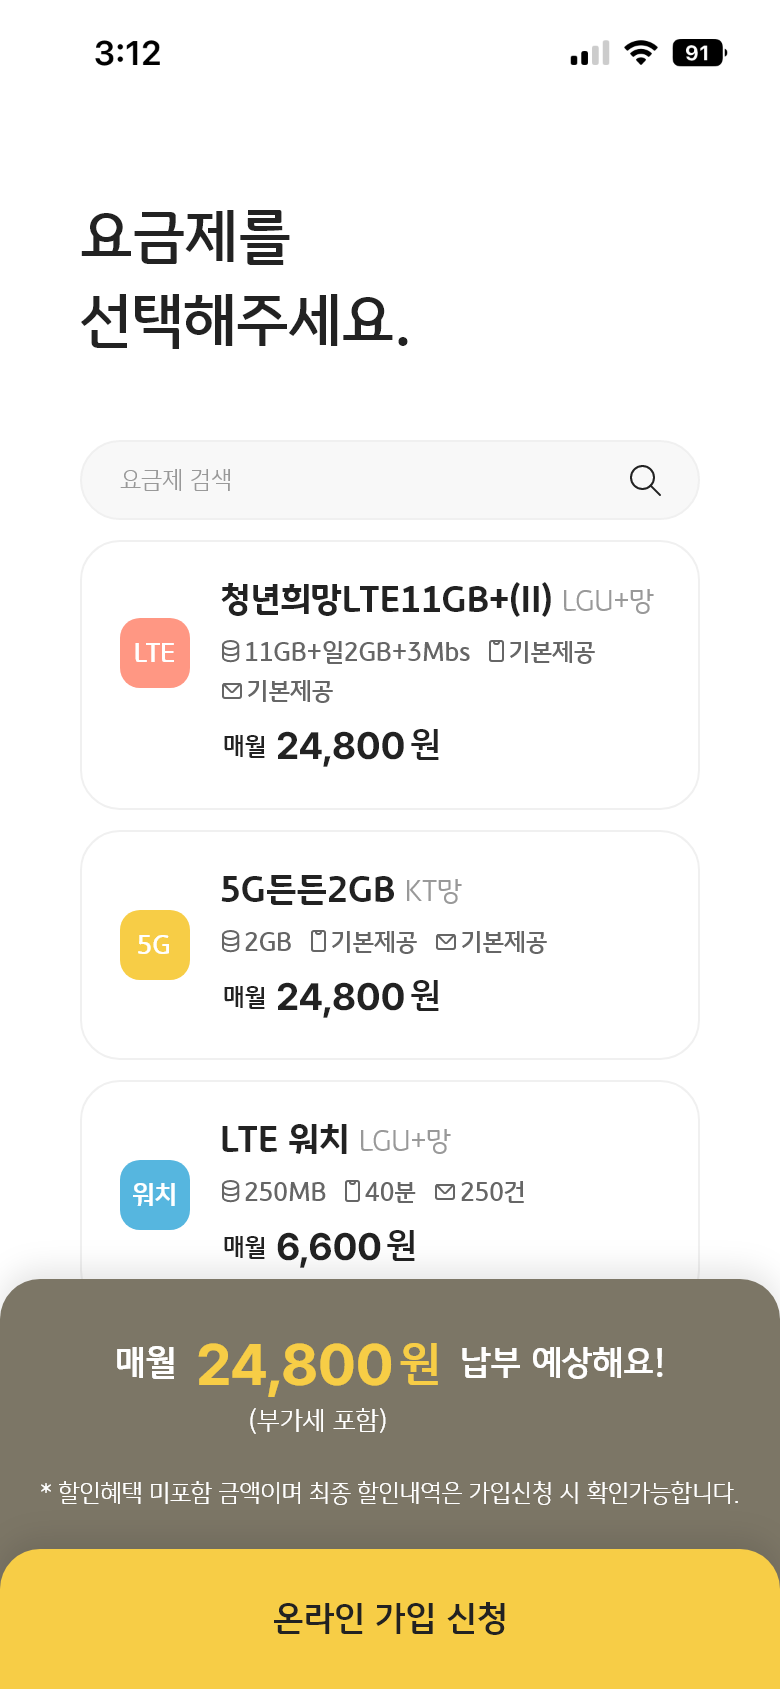
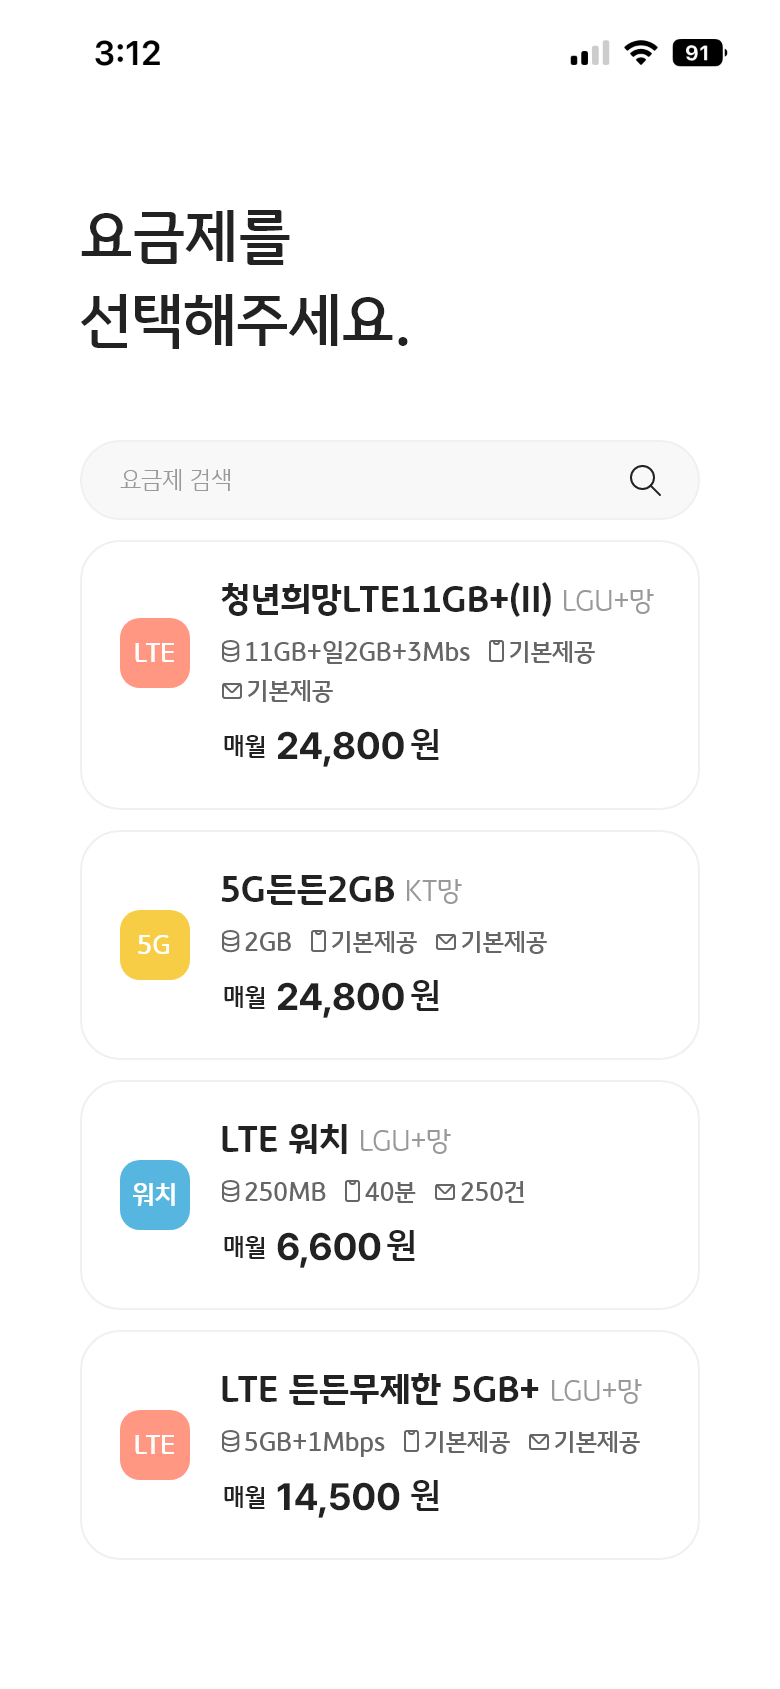
추가

Changed region(s): [[0.0, 0.7389, 1.0, 1.0]]

diff --git a/dfgdfGSRDGsdfg/kb_Liiv_Mobile/A/signup/css/style.css b/dfgdfGSRDGsdfg/kb_Liiv_Mobile/A/signup/css/style.css
@@ -99,7 +99,7 @@ img {width: 100%;}
 .signup2.on {display: block;}
 .signup3 {display: none;}
 .signup3.on {display: block;}
-.signup4 {display: none;}
+.signup4 {display: none; position: relative; overflow: hidden;}
 .signup4.on {display: block;}
 .signup_process.on {display: block;}
 .input {position: absolute; top: 27%; left: 50%; transform: translateX(-50%); width: 100%; height: 347.5px; padding: 0 10px;}
@@ -125,3 +125,7 @@ img {width: 100%;}
 .signup3 .input ul li:last-child {margin-left: 10px;}
 .signup2 .next,
 .signup3 .next {width: 60px;}
+
+.signup4_button {position: absolute; bottom: 0%; left: 0; width: 100%; max-width: 390px; cursor: pointer;}
+.footer {position: absolute; bottom: -100%; left: 0; width: 100%; max-width: 390px; opacity: 0; transition: all ease-in-out 0.5s;}
+.footer.on {bottom: 0%; opacity: 1;}

diff --git a/dfgdfGSRDGsdfg/kb_Liiv_Mobile/A/signup/js/script.js b/dfgdfGSRDGsdfg/kb_Liiv_Mobile/A/signup/js/script.js
@@ -124,6 +124,10 @@ $('.chatImg').on('click', function () {
   }, 1000);
 })
 
+$('.signup4_button').on('click', function() {
+  $('.footer').toggleClass('on');
+})
+
 $('.input ul li').on('click', function () {
   if (!$('.signup1').hasClass('off')) {
     $(this).toggleClass('on');

diff --git a/dfgdfGSRDGsdfg/kb_Liiv_Mobile/A/signup/index.html b/dfgdfGSRDGsdfg/kb_Liiv_Mobile/A/signup/index.html
@@ -175,6 +175,8 @@
       </div>
       <div class="signup4">
         <img src="./img/signup4.png">
+        <img class="footer" src="./img/signup4_footer.png">
+        <img class="signup4_button" src="./img/signup4_button.png">
       </div>
     </div>
   </div>
